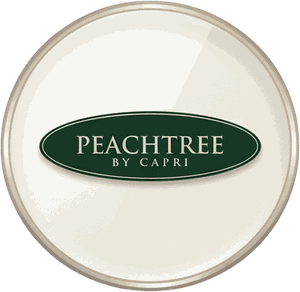
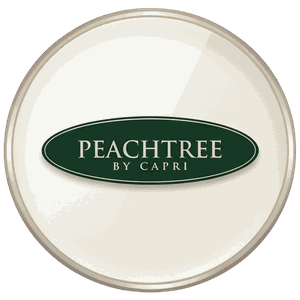
feat(marca): botoneria de CRISTAL completa (chips, azulejos y CTAs es/en como imagen con hover de contorno+sombra) y medallones re-centrados en su disco
Claude-Session: https://claude.ai/code/session_012jNjqC2y8VbkoH5FWGKcFx

Changed region(s): [[0.0, 0.0, 1.0, 1.0], [0.12, 0.3699, 0.87, 0.6473]]

diff --git a/apps/capri-storefront/src/styles/index.css b/apps/capri-storefront/src/styles/index.css
@@ -7717,7 +7717,9 @@ h1, h2, .section-title { letter-spacing: -0.022em; }
    cualquier .brand-circle. El medallón trae su propio acabado: el círculo del
    sistema deja de pintar fondo/borde y el PNG llena el aro completo. */
 .brand-circle { background: transparent; border-color: transparent; padding: 0; overflow: hidden; }
-.brand-circle img { width: 100%; height: 100%; object-fit: cover; border-radius: 50%; }
+.brand-circle img { width: 100%; height: 100%; object-fit: contain; border-radius: 50%; }
+/* contain: el disco ya viene centrado y cuadrado en el PNG; cover rebanaba el
+   aro cuando la sombra del render descentraba el bbox (columnas laterales). */
 .brand-circle:hover { border-color: transparent; box-shadow: 0 14px 30px -12px rgba(10, 25, 60, .35); }
 .brand-circle.is-active { box-shadow: 0 0 0 3px #fff, 0 0 0 5px var(--blue), 0 14px 30px -12px rgba(10,25,60,.35); }
 
@@ -7767,3 +7769,65 @@ h1, h2, .section-title { letter-spacing: -0.022em; }
 .flag-btn.on { box-shadow: 0 0 0 2px rgba(255, 255, 255, .85); }
 .icon-btn:hover .hdr-img { transform: translateY(-1px); }
 .hdr-img { transition: transform var(--dur-1) var(--ease); }
+
+/* ═══ ETAPA 110 — Botonería de CRISTAL de la lámina del dueño ═════════════
+   La obra completa (píldora/azulejo/botón) se usa COMO IMAGEN ajustada a su
+   hueco, para conservar todo el detalle gráfico. La interacción la pone el
+   CSS: al pasar el cursor, elevación + CONTORNO navy que sigue la silueta
+   real (4 drop-shadows de 1px sobre el alpha) + sombra profunda; al pulsar,
+   leve compresión. Teclado: mismo contorno con :focus-visible.
+   Dónde se usa: chips de estilo y azulejos de forma (Home), botones
+   Probármelos / Añadir al carrito (ProductCard y PDP). */
+
+/* — contorno + sombra reutilizables — */
+.chip-pill, .shape-tile-img, .btn-glass-img {
+  display: block;
+  transition: transform var(--dur-2) var(--ease), filter var(--dur-2) var(--ease);
+  filter: drop-shadow(0 6px 14px rgba(10, 25, 60, .14));
+  will-change: transform, filter;
+}
+.style-chip-glass:hover .chip-pill,
+.shape-tile-glass:hover .shape-tile-img,
+.btn-glass:hover:not(:disabled) .btn-glass-img,
+.style-chip-glass:focus-visible .chip-pill,
+.shape-tile-glass:focus-visible .shape-tile-img,
+.btn-glass:focus-visible .btn-glass-img {
+  transform: translateY(-3px) scale(1.02);
+  filter:
+    drop-shadow(1px 0 0 var(--royal)) drop-shadow(-1px 0 0 var(--royal))
+    drop-shadow(0 1px 0 var(--royal)) drop-shadow(0 -1px 0 var(--royal))
+    drop-shadow(0 16px 28px rgba(1, 50, 107, .32));
+}
+.style-chip-glass:active .chip-pill,
+.shape-tile-glass:active .shape-tile-img,
+.btn-glass:active:not(:disabled) .btn-glass-img { transform: translateY(-1px) scale(.99); }
+
+/* — chips de estilo: la píldora manda; el contenido clásico queda de respaldo — */
+.style-chip.style-chip-glass {
+  background: transparent; border: none; padding: 0; box-shadow: none; border-radius: 999px;
+}
+.style-chip-glass > *:not(.chip-pill) { display: none; }
+.chip-pill { height: 58px; width: auto; }
+
+/* — azulejos de forma: el azulejo de cristal completo — */
+.shape-tile.shape-tile-glass { background: transparent; border: none; padding: 0; box-shadow: none; border-radius: 22px; }
+.shape-tile-glass > *:not(.shape-tile-img) { display: none; }
+.shape-tile-glass:hover { transform: none; box-shadow: none; border-color: transparent; }
+.shape-tile-img { width: 100%; max-width: 250px; height: auto; }
+
+/* — botones Probármelos / Añadir al carrito — */
+.card-tryon.btn-glass, .card-add-cart.btn-glass, .pdp-cta.btn-glass {
+  background: transparent !important; border: none !important; padding: 0 !important;
+  box-shadow: none !important; display: grid; place-items: center;
+}
+.btn-glass .btn-glass-fb { display: none; }
+.btn-glass .btn-glass-img { width: 100%; max-width: 340px; height: auto; }
+.pdp-cta.btn-glass .btn-glass-img { max-width: 420px; }
+.btn-glass:disabled .btn-glass-img { opacity: .45; filter: grayscale(.4); }
+
+@media (max-width: 760px) {
+  .chip-pill { height: 48px; }
+}
+@media (prefers-reduced-motion: reduce) {
+  .chip-pill, .shape-tile-img, .btn-glass-img { transition: none; }
+}

diff --git a/apps/capri-storefront/src/components/ProductCard.jsx b/apps/capri-storefront/src/components/ProductCard.jsx
@@ -33,7 +33,7 @@ export default function ProductCard({ product }) {
   const tryOn = tryOnOpenKey !== null && tryOnOpenKey === productTryOnKey(product);
   const [added, setAdded] = useState(false);
   const [genreTip, setGenreTip] = useState(false);
-  const { t, tv } = useLang();
+  const { t, tv, lang } = useLang();
   const { toggleFav, isFav, addVariant, busy } = useCart();
   const { toast } = useFeedback();
   const color = product.colors[active];
@@ -200,18 +200,25 @@ export default function ProductCard({ product }) {
         {/* Acción principal: probador con cámara. Diferencia la tienda — primero
             invitamos a verse la montura, después a comprar. */}
         {TRY_ON_ENABLED && (
-          <button type="button" className="card-tryon" onClick={() => openTryOn(product)}>
-            {/* Cámara dorada de la lámina de botones de la marca (recorte PNG
-                transparente en public/ui/); el texto sigue vivo para es/en. */}
-            <img className="ic-raster" src="/ui/ic-camera-gold.png" alt="" aria-hidden="true"
-                 onError={(e) => e.currentTarget.remove()} />
-            {t("card.tryOn")}
+          <button type="button" className="card-tryon btn-glass" onClick={() => openTryOn(product)}
+                  aria-label={t("card.tryOn")} title={t("card.tryOn")}>
+            {/* Botón de CRISTAL completo de la lámina del dueño (idioma activo):
+                la obra entera como imagen para conservar todo el detalle; hover
+                con elevación, contorno y sombra (ETAPA 110). Respaldo: cámara
+                dorada + texto sobre el botón navy clásico. */}
+            <img className="btn-glass-img" src={`/ui/btn-${lang}-tryon.png`} alt="" loading="lazy"
+                 onError={(e) => { e.currentTarget.closest(".btn-glass").classList.remove("btn-glass"); e.currentTarget.remove(); }} />
+            <span className="btn-glass-fb">
+              <img className="ic-raster" src="/ui/ic-camera-gold.png" alt="" aria-hidden="true"
+                   onError={(e) => e.currentTarget.remove()} />
+              {t("card.tryOn")}
+            </span>
           </button>
         )}
         {/* Acción secundaria: añadir SOLO la montura al carrito. */}
         <button
           type="button"
-          className={`card-add-cart ${added ? "done" : ""}`}
+          className={`card-add-cart ${added ? "done" : "btn-glass"}`}
           disabled={busy || !color.variantId}
           onClick={addFrameOnly}
         >
@@ -219,11 +226,15 @@ export default function ProductCard({ product }) {
             <>✓ {t("case.added")}</>
           ) : (
             <>
-              {/* Carrito navy de la lámina de botones de la marca (PNG
-                  transparente); va sobre el botón claro, como en la lámina. */}
-              <img className="ic-raster ic-raster-sm" src="/ui/ic-cart-navy.png" alt="" aria-hidden="true"
-                   onError={(e) => e.currentTarget.remove()} />
-              {t("card.addToCart")}
+              {/* Botón de CRISTAL claro de la lámina (idioma activo); respaldo:
+                  carrito navy + texto en el botón outline clásico. */}
+              <img className="btn-glass-img" src={`/ui/btn-${lang}-addcart.png`} alt="" loading="lazy"
+                   onError={(e) => { e.currentTarget.closest(".card-add-cart").classList.remove("btn-glass"); e.currentTarget.remove(); }} />
+              <span className="btn-glass-fb">
+                <img className="ic-raster ic-raster-sm" src="/ui/ic-cart-navy.png" alt="" aria-hidden="true"
+                     onError={(e) => e.currentTarget.remove()} />
+                {t("card.addToCart")}
+              </span>
             </>
           )}
         </button>

diff --git a/apps/capri-storefront/src/pages/Home.jsx b/apps/capri-storefront/src/pages/Home.jsx
@@ -191,9 +191,16 @@ export default function Home() {
         </div>
         <div className="chip-row">
           {STYLE_CHIPS.map((c) => (
-            <Link key={c.key} to={chipHref(c)} className="style-chip">
-              {/* Icono bronce de la lámina de marca (public/chips/, recortado con
-                  fondo transparente); si el PNG faltara, cae al SVG de línea. */}
+            <Link key={c.key} to={chipHref(c)} className="style-chip style-chip-glass"
+                  aria-label={t(c.key)} title={t(c.key)}>
+              {/* Píldora de CRISTAL completa de la lámina del dueño, en el idioma
+                  activo (public/chips/pill-<lang>-*.png): se usa la obra entera
+                  como imagen para no perder el detalle gráfico, y el hover le da
+                  elevación, contorno y sombra (ETAPA 110). Si el PNG faltara,
+                  cae al chip clásico (icono bronce + texto). */}
+              <img className="chip-pill" src={`/chips/pill-${lang}-${c.key.split(".").pop()}.png`}
+                   alt={t(c.key)} loading="lazy"
+                   onError={(e) => { e.currentTarget.closest(".style-chip").classList.remove("style-chip-glass"); e.currentTarget.remove(); }} />
               <span className="style-chip-ic">
                 <img className="style-chip-img" src={`/chips/chip-${c.key.split(".").pop()}.png`} alt=""
                      loading="lazy"
@@ -243,10 +250,14 @@ export default function Home() {
           </aside>
           <div className="shape-row">
             {SHAPES.map((s) => (
-              <Link key={s.value} to={`/catalogo?shape=${encodeURIComponent(s.value)}`} className="shape-tile">
-                {/* Foto real de la forma (recorte PNG transparente en /shapes/,
-                    derivado de la lámina de marca) sobre azulejo blanco del
-                    sistema; el icono de línea queda de respaldo si no carga. */}
+              <Link key={s.value} to={`/catalogo?shape=${encodeURIComponent(s.value)}`} className="shape-tile shape-tile-glass"
+                    aria-label={t(s.key)} title={t(s.key)}>
+                {/* Azulejo de CRISTAL completo de la lámina (idioma activo): la
+                    obra entera como imagen, con hover de elevación + contorno +
+                    sombra (ETAPA 110). Respaldo: foto recortada + nombre. */}
+                <img className="shape-tile-img" src={`/shapes/tile-${lang}-${s.lens}.png`}
+                     alt={t(s.key)} loading="lazy"
+                     onError={(e) => { e.currentTarget.closest(".shape-tile").classList.remove("shape-tile-glass"); e.currentTarget.remove(); }} />
                 <span className="shape-ico shape-ico-photo">
                   <img src={`/shapes/shape-${s.lens}.png`} alt="" loading="lazy"
                        onError={(e) => { e.currentTarget.closest(".shape-ico").classList.remove("shape-ico-photo"); e.currentTarget.remove(); }} />

diff --git a/apps/capri-storefront/src/pages/ProductDetail.jsx b/apps/capri-storefront/src/pages/ProductDetail.jsx
@@ -508,20 +508,30 @@ export default function ProductDetail() {
               como en las tarjetas). El flujo de lentes graduados sigue a un clic. */}
           <div className="pdp-actions2">
             {TRY_ON_ENABLED && (
-              <button type="button" className="btn btn-primary big pdp-cta" onClick={() => setTryOnSlug(slug)}>
-                {/* Cámara dorada de la lámina de botones (igual que en las
-                    tarjetas del catálogo); texto vivo para es/en. */}
-                <img className="ic-raster" src="/ui/ic-camera-gold.png" alt="" aria-hidden="true"
-                     onError={(e) => e.currentTarget.remove()} />
-                {t("tryon.cta")}
+              <button type="button" className="btn btn-primary big pdp-cta btn-glass" onClick={() => setTryOnSlug(slug)}
+                      aria-label={t("tryon.cta")} title={t("tryon.cta")}>
+                {/* Botón de CRISTAL completo de la lámina (idioma activo), con
+                    hover de elevación+contorno+sombra; respaldo clásico. */}
+                <img className="btn-glass-img" src={`/ui/btn-${lang}-tryon.png`} alt="" loading="lazy"
+                     onError={(e) => { e.currentTarget.closest(".btn-glass").classList.remove("btn-glass"); e.currentTarget.remove(); }} />
+                <span className="btn-glass-fb">
+                  <img className="ic-raster" src="/ui/ic-camera-gold.png" alt="" aria-hidden="true"
+                       onError={(e) => e.currentTarget.remove()} />
+                  {t("tryon.cta")}
+                </span>
               </button>
             )}
-            <button type="button" className="btn btn-outline big pdp-cta"
+            <button type="button" className="btn btn-outline big pdp-cta btn-glass"
                     disabled={!color?.variantId}
+                    aria-label={t("card.addToCart")} title={t("card.addToCart")}
                     onClick={() => addFrame(color?.variantId)}>
-              <img className="ic-raster ic-raster-sm" src="/ui/ic-cart-navy.png" alt="" aria-hidden="true"
-                   onError={(e) => e.currentTarget.remove()} />
-              {t("card.addToCart")}
+              <img className="btn-glass-img" src={`/ui/btn-${lang}-addcart.png`} alt="" loading="lazy"
+                   onError={(e) => { e.currentTarget.closest(".btn-glass").classList.remove("btn-glass"); e.currentTarget.remove(); }} />
+              <span className="btn-glass-fb">
+                <img className="ic-raster ic-raster-sm" src="/ui/ic-cart-navy.png" alt="" aria-hidden="true"
+                     onError={(e) => e.currentTarget.remove()} />
+                {t("card.addToCart")}
+              </span>
             </button>
           </div>
           <button type="button" className="pdp-lensflow"
